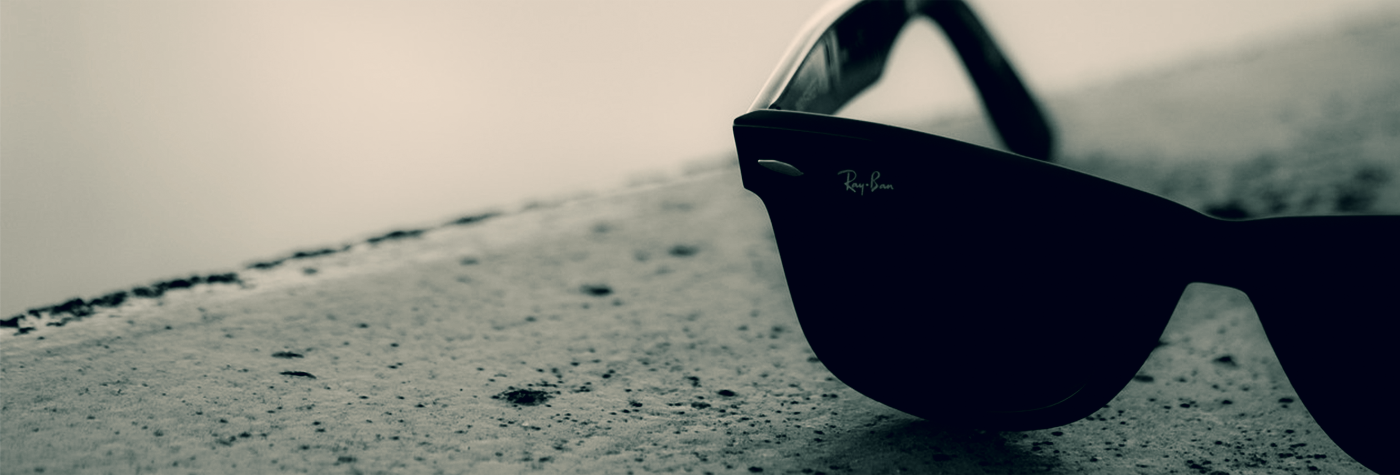
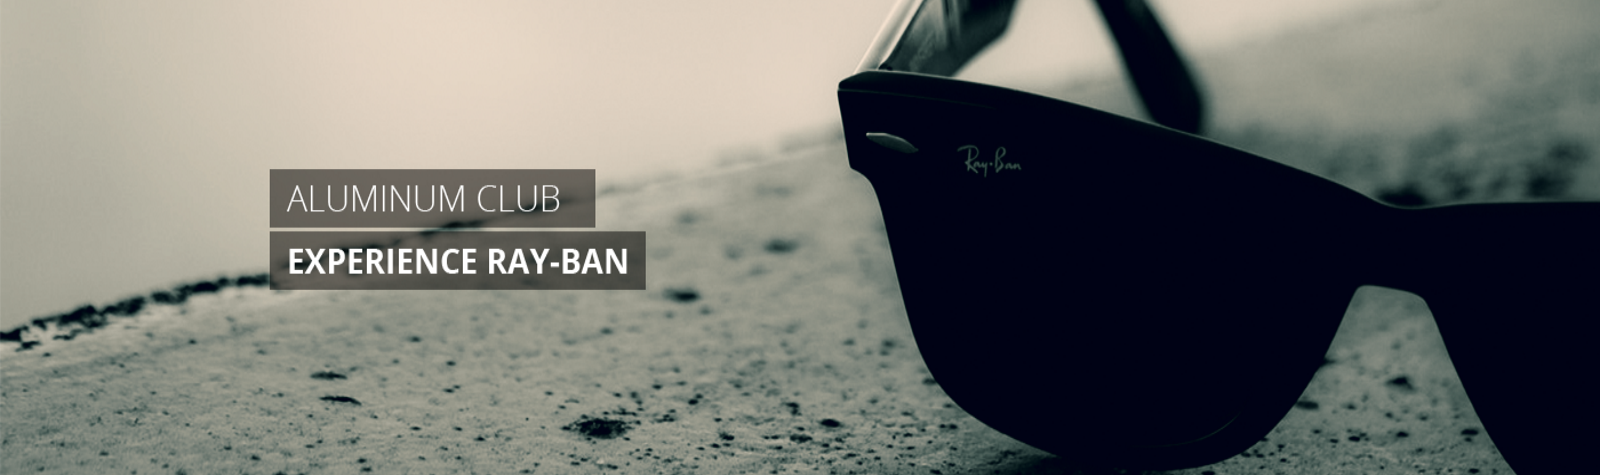
background changes

diff --git a/src/components/Hero.jsx b/src/components/Hero.jsx
@@ -2,22 +2,70 @@ import React from 'react';
 import '../css/Hero.css'
 import FAButton from './UI/button/FAButton';
 import { faChevronLeft, faChevronRight } from '@fortawesome/free-solid-svg-icons'; 
+import HeroBackground from './HeroBackground';
+import { useState } from 'react';
+import { image } from '../images/image';
  
-const Hero = ({img}) => {
+const Hero = () => {
+  const [translate, setTranslate] = useState(0);
+  const background = [ 
+    image.background.hero1, 
+    image.background.hero2, 
+    image.background.hero3, 
+    image.background.hero4,
+  ]
+  
+  function changeBackground(event) {
+    if(translate == -((background.length - 1) * 100) && event === 'right') {
+      setTranslate(0);
+      return;
+    }
+    if (translate == 0 && event === 'left') {
+      setTranslate(-((background.length - 1) * 100));
+      return;
+    }
+    if(event === 'right') {
+      setTranslate(translate - 100) 
+      return;
+    } 
+    if(event === 'left') {
+      setTranslate(translate + 100);
+      return
+    } 
+    console.log(`translate at this moment: ${translate}`)
+  }
+
+//   function test() {
+//     setTimeout(() => {
+//       if(translate == -((background.length - 1) * 100)) {
+//         setTranslate(0);
+//         return;
+//       } else {
+//         setTranslate(translate - 100)
+//       }
+//       console.log(`translate at this moment: ${translate}`)
+//       test()
+//     }, 5000)
+//   }
+
+// test()
+
   return (
-    <section className='hero__section'>
-        <img className='hero__bg' src={img} alt="nema" />
+    <section className='hero__section' style={{width: background.length * 100 + 'vw'}}>
+        <ul className='inner__hero' style={{transform: `translate3d(${translate + 'vw'}, 0, 0)`}}>
+          {background.map(img => 
+            <HeroBackground img={img} />
+          )}
+        </ul>
           <div className='hero__btn'>
             <FAButton 
               icon={faChevronLeft} 
               color="white" 
               size='67' 
               iColor='#cdcdcd'
+              value='left'
+              onClick={changeBackground}
             />
-          </div>
-          <div className='hero__header'>
-            <h1>Aluminium Club</h1>
-            <h1 style={{fontWeight: '700'}}>Experience Ray-Ban</h1>
           </div>
           <div className='hero__btn' style={{left: '86%'}}>
           <FAButton 
@@ -25,6 +73,8 @@ const Hero = ({img}) => {
             color="white" 
             size='67' 
             iColor='#cdcdcd'
+            onClick={changeBackground}
+            value='right'
           />
           </div>
     </section>

diff --git a/src/components/UI/button/FAButton.jsx b/src/components/UI/button/FAButton.jsx
@@ -2,16 +2,19 @@ import React from 'react';
 import cl from './FAButton.module.css';
 import { FontAwesomeIcon } from '@fortawesome/react-fontawesome';
  
-const FAButton = ({icon, color, size, iColor}) => {
+const FAButton = ({icon, color, size, iColor, onClick, value}) => {
 
   return (
     <button 
       className={cl.faButton} 
       style={{background: color, width: size + 'px', height: size + 'px'}}
+      value={value}
+      onClick={e => onClick(e.target.value)}
     >
       <FontAwesomeIcon 
         style={{fontSize: size / 2.3, color: iColor}} 
-        icon={icon} 
+        icon={icon}
+        onClick={e => onClick(e.currentTarget.parentNode.value)}
       />
     </button>
   )

diff --git a/src/css/Hero.css b/src/css/Hero.css
@@ -1,17 +1,28 @@
 .hero__section {
-    width: 100%;
-    height: 60vh;
+    height: 485px;
     margin-bottom: 20px;
     display: flex;
     justify-content: space-between;
     align-items: center;
 }
 
-.hero__bg {
-    position: absolute;
-    width: 100%;
+.inner__hero {
+    display: inline-flex;
+    list-style: none;
+    padding: 0;
     height: inherit;
-    z-index: -1;
+    width: 100%;
+    transition: all 1s;
+}
+
+.hero__bg {
+    width: 100vw;
+    height: inherit;
+}
+
+.hero__bg img {
+    width: 100%;
+    height: 485px;
 }
 
 .hero__btn {

diff --git a/src/images/image.js b/src/images/image.js
@@ -1,4 +1,7 @@
 import hero1 from './hero1.png';
+import hero2 from './hero2.png';
+import hero3 from './hero3.png';
+import hero4 from './hero4.png';
 import glasses from './Layer_14.png';
 import asideimg from './asideImg.png'
 
@@ -6,4 +9,10 @@ export const image = {
     hero1: hero1,
     glasses: glasses,
     asimg: asideimg,
+    background: {
+        hero1: hero1,
+        hero2: hero2,
+        hero3: hero3,
+        hero4: hero4,
+    }
 }

diff --git a/src/components/UI/button/FAButton.module.css b/src/components/UI/button/FAButton.module.css
@@ -10,10 +10,14 @@
     align-items: center;
     justify-content: center;
     margin: 0 10px;
-    transition: all 1s;
+    transition: cursor 1s, filter 1s, transform 0.3s ;
 }
 
 .faButton:hover {
     cursor: pointer;
-    transform: rotate(360deg);
+    filter: brightness(90%);
+}
+
+.faButton:active {
+    transform: translateY(5px);
 }

diff --git a/src/App.js b/src/App.js
@@ -23,7 +23,7 @@ function App() {
   return (
     <div className="App">
       <Navbar />
-      <Hero img={image.hero1} />
+      <Hero />
       <SideBar />
         <GoodsList 
           title="Улюблені товари"
@@ -45,3 +45,4 @@ function App() {
 }
 
 export default App;
+

diff --git a/src/components/ButtonList.jsx b/src/components/ButtonList.jsx
@@ -7,7 +7,6 @@ const ButtonList = () => {
     <div style={{color: '#fff'}}>
         <NavButton name="Account" /> |
         <NavButton name="Wishlist" /> |
-        <NavButton name="Checkout" /> |
         <NavButton name="Log In" /> |
         <NavButton name="Sign Up" /> 
     </div>

diff --git a/src/components/HeroBackground.jsx b/src/components/HeroBackground.jsx
@@ -1,0 +1,12 @@
+import React from 'react';
+// import '../css/HeroBackground.css'
+ 
+const HeroBackground = ({img}) => {
+  return (
+    <li className='hero__bg'>
+        <img  src={img} alt="nema" />
+    </li>
+  )
+}
+ 
+export default HeroBackground;
